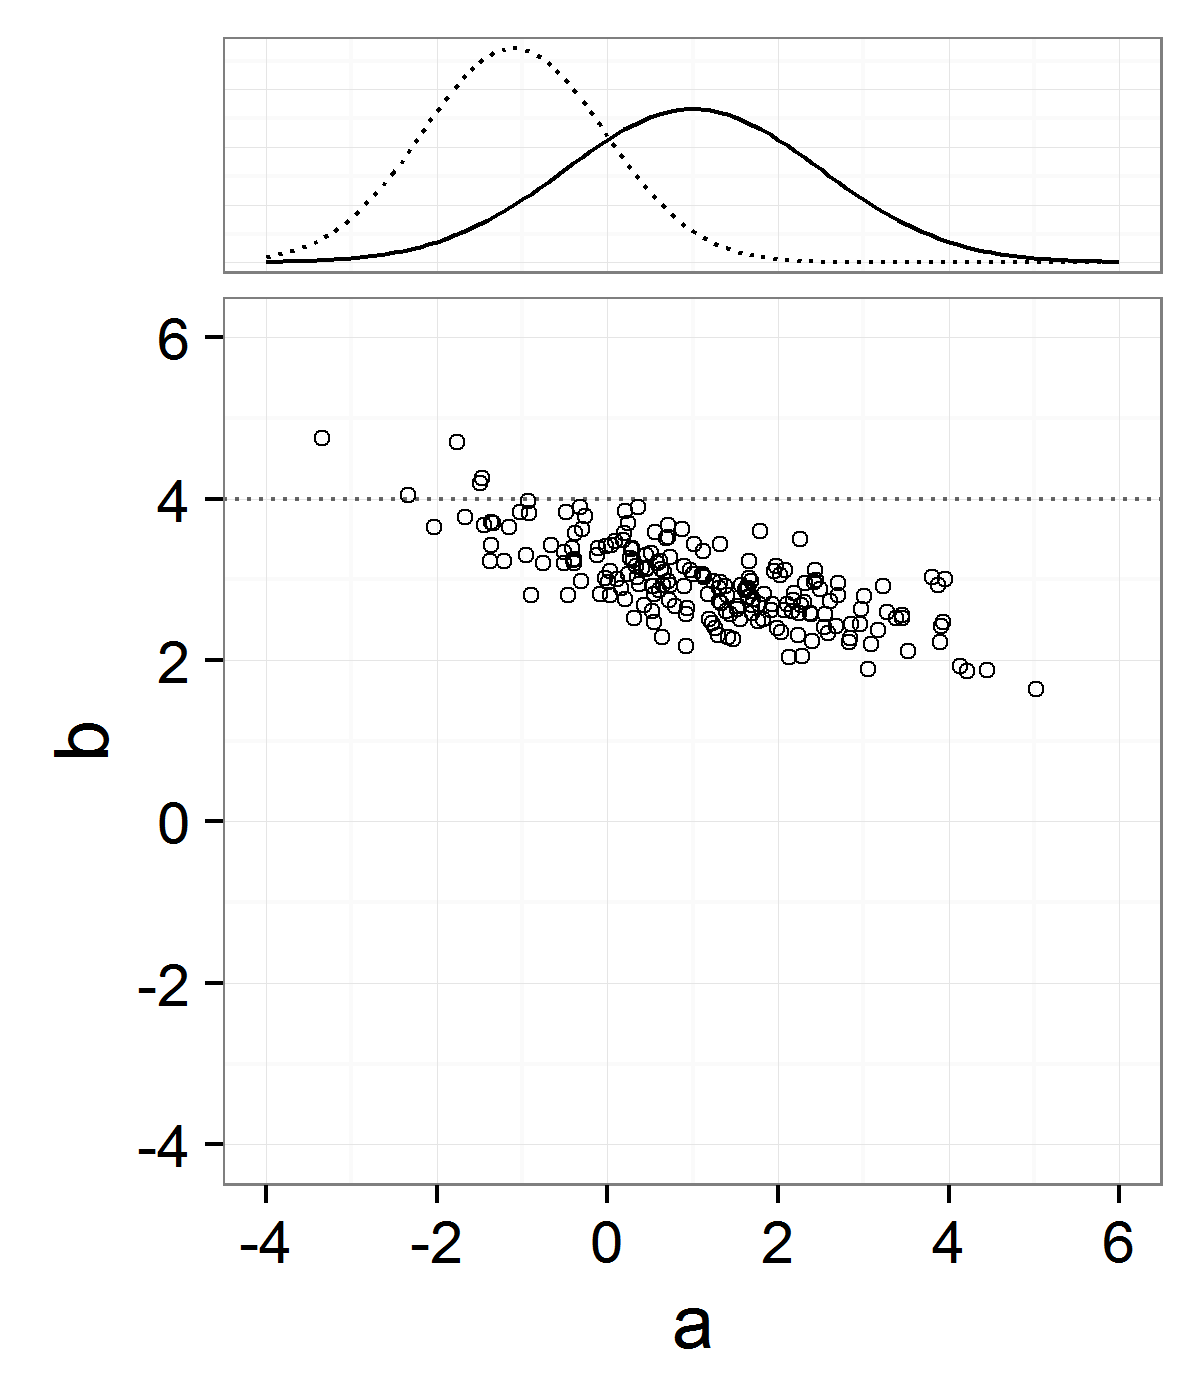
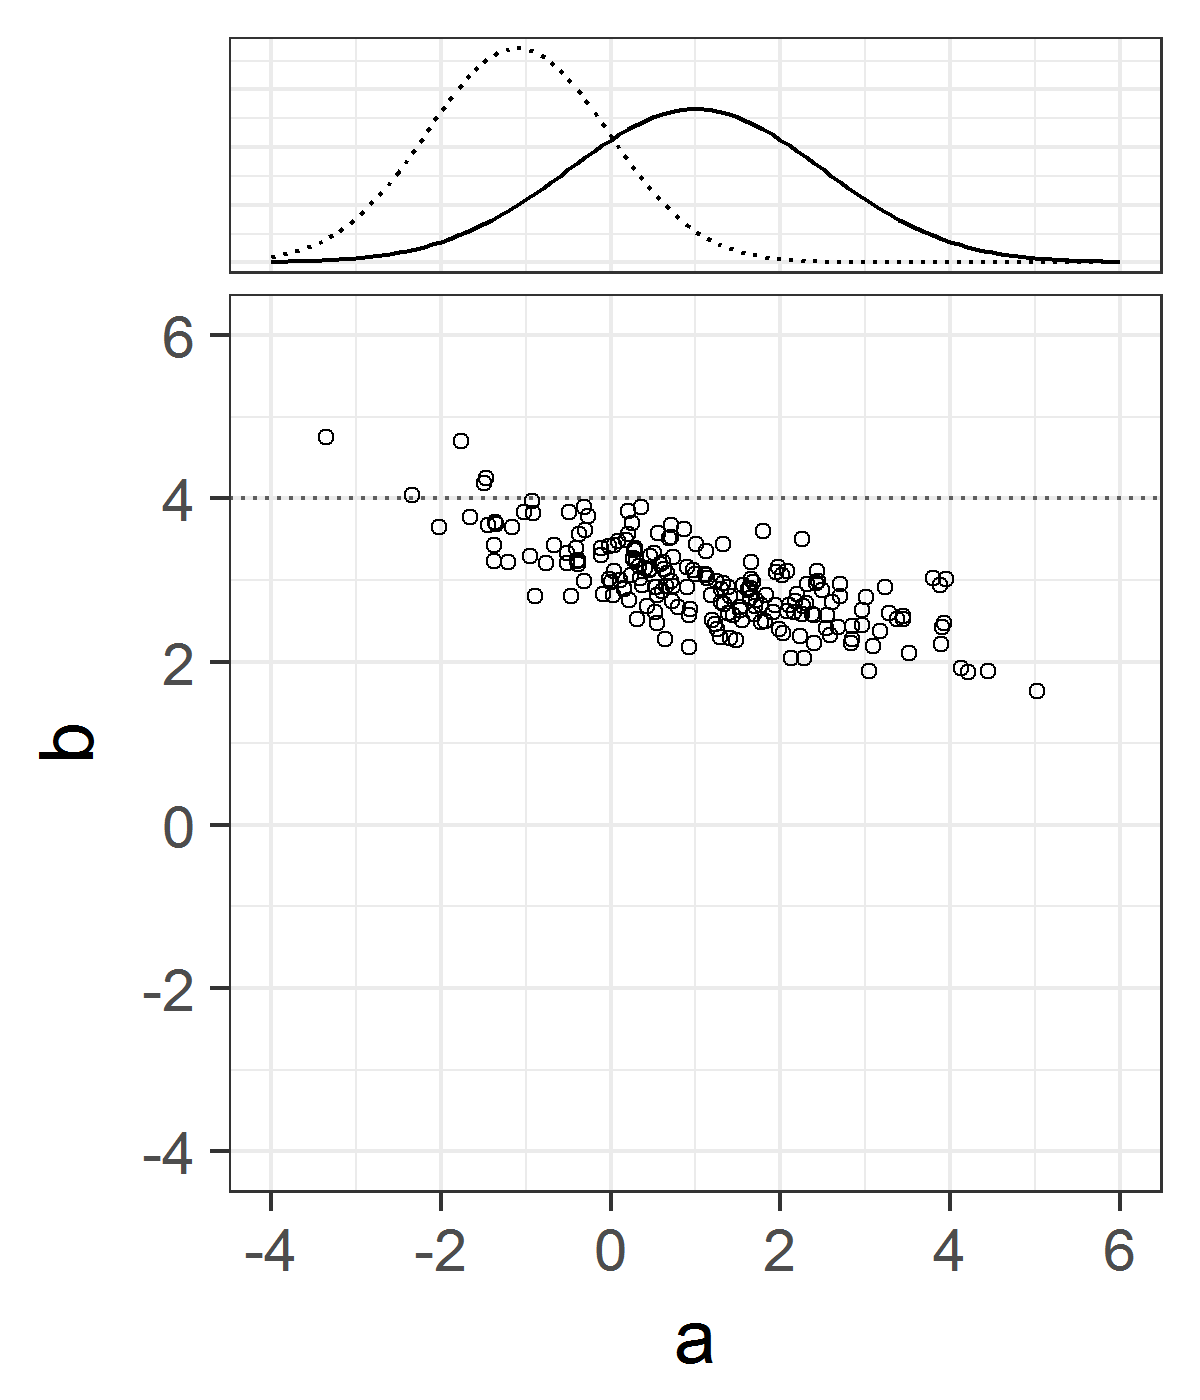
changed for ggplot 2.2.0

diff --git a/README.md b/README.md
@@ -33,25 +33,27 @@ source('ex1.R')
 
 ## StanやRStanのバージョンアップに伴う補足
 [こちら](update.md)
-- バージョン2.14から, RからStanにデータを渡す場合`data.frame`だとエラーが出るようになりましたので注意してください.
+- バージョン2.14では, RからStanにデータを渡す場合`data.frame`だとエラーが出るようになりましたので注意してください.
 
 ## 正誤表
 [こちら](errata.md)
 
-## 実行環境
-* OS: Windows 7 SP1 (64bit)
-* R 3.3.1
-* Rtools34
-* Stan 2.11
-* rstan 2.11.1
-* ggplot 2.1.0
-* ggmcmc 1.1
-* GGally 1.1.0
-* ellipse 0.3.8
-* hexbin 1.27.1
-* ggtern 2.1.1
-* mvtnorm 1.0-5
-* bda 5.1.6
-* gtools 3.5.0
-* Nippon 0.6.3-1
-* ggrepel 0.5
+## ソースコードの実行環境
+| ソフトやパッケージ名 | 執筆時点 | サポートページ内の現状 |
+|:-----------|:------------|:------------|
+| OS | Windows 7 SP1 (64bit) | Windows 7 SP1 (64bit) |
+| R | 3.3.1 | 3.3.1 |
+| Rtools | Rtools34 | Rtools34 |
+| Stan | 2.11 | 2.14 |
+| rstan | 2.11.1 | 2.14.1 |
+| ggplot | 2.1.0 | 2.2.0 |
+| ggmcmc | 1.1 | 1.1 |
+| GGally | 1.1.0 | 1.3.0 |
+| ellipse | 0.3.8 | 0.3.8 |
+| hexbin | 1.27.1 | 1.27.1 |
+| ggtern | 2.1.1 | 2.2.0 |
+| mvtnorm | 1.0.5 | 1.0.5 |
+| bda | 5.1.6 | 5.1.6 |
+| gtools | 3.5.0 | 3.5.0 |
+| Nippon | 0.6.3.1 | 0.6.3.1 |
+| ggrepel | 0.5 | 0.6.5 |
